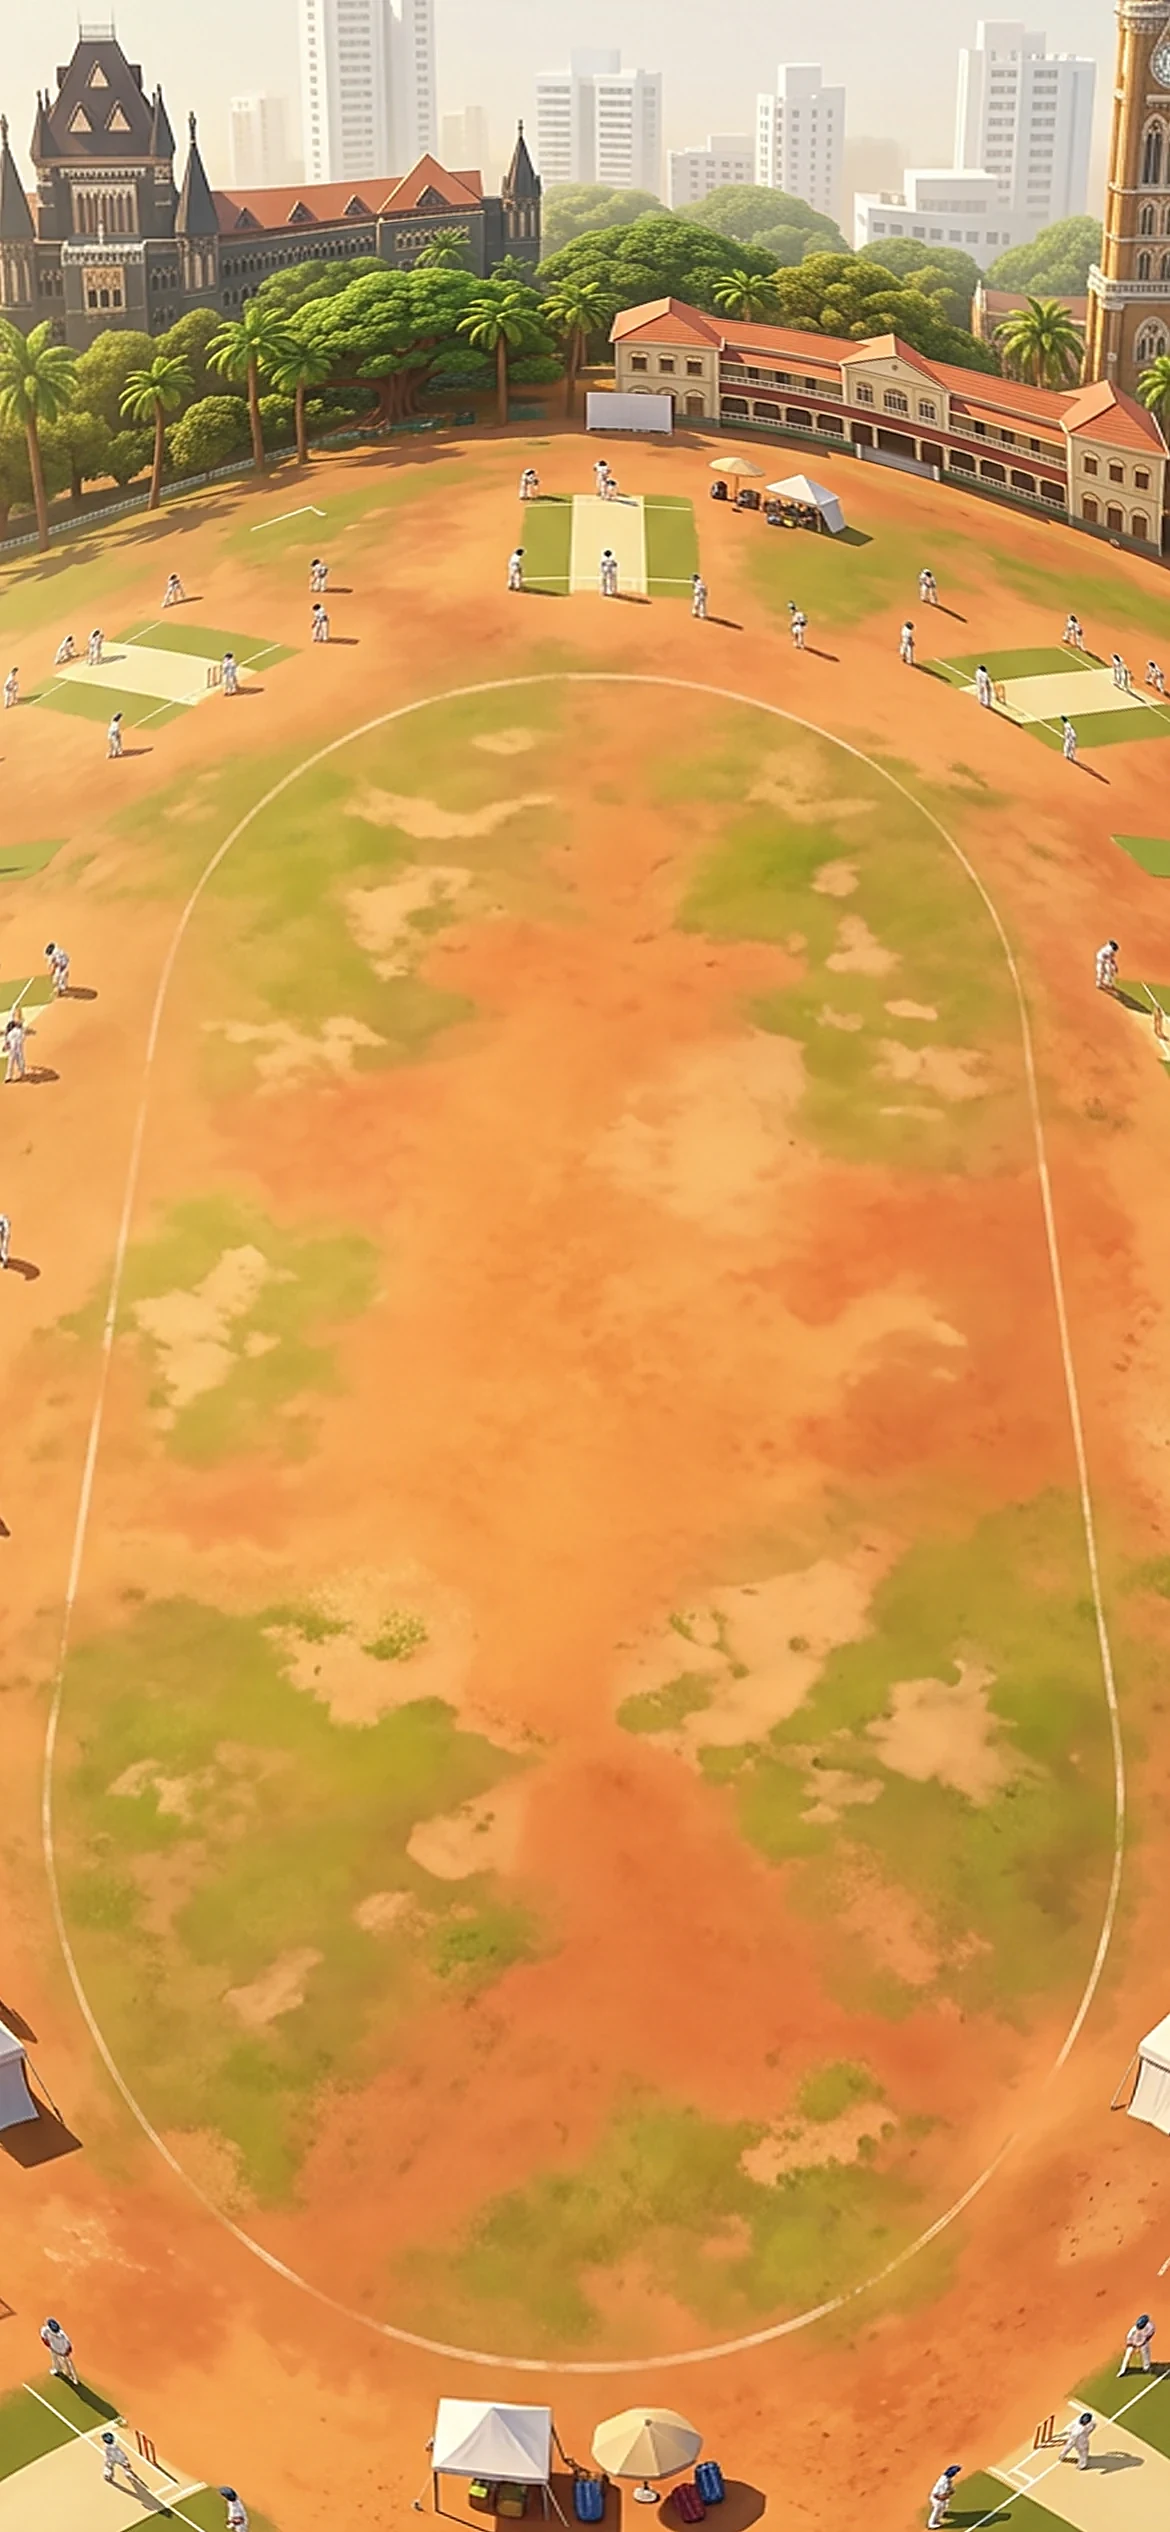
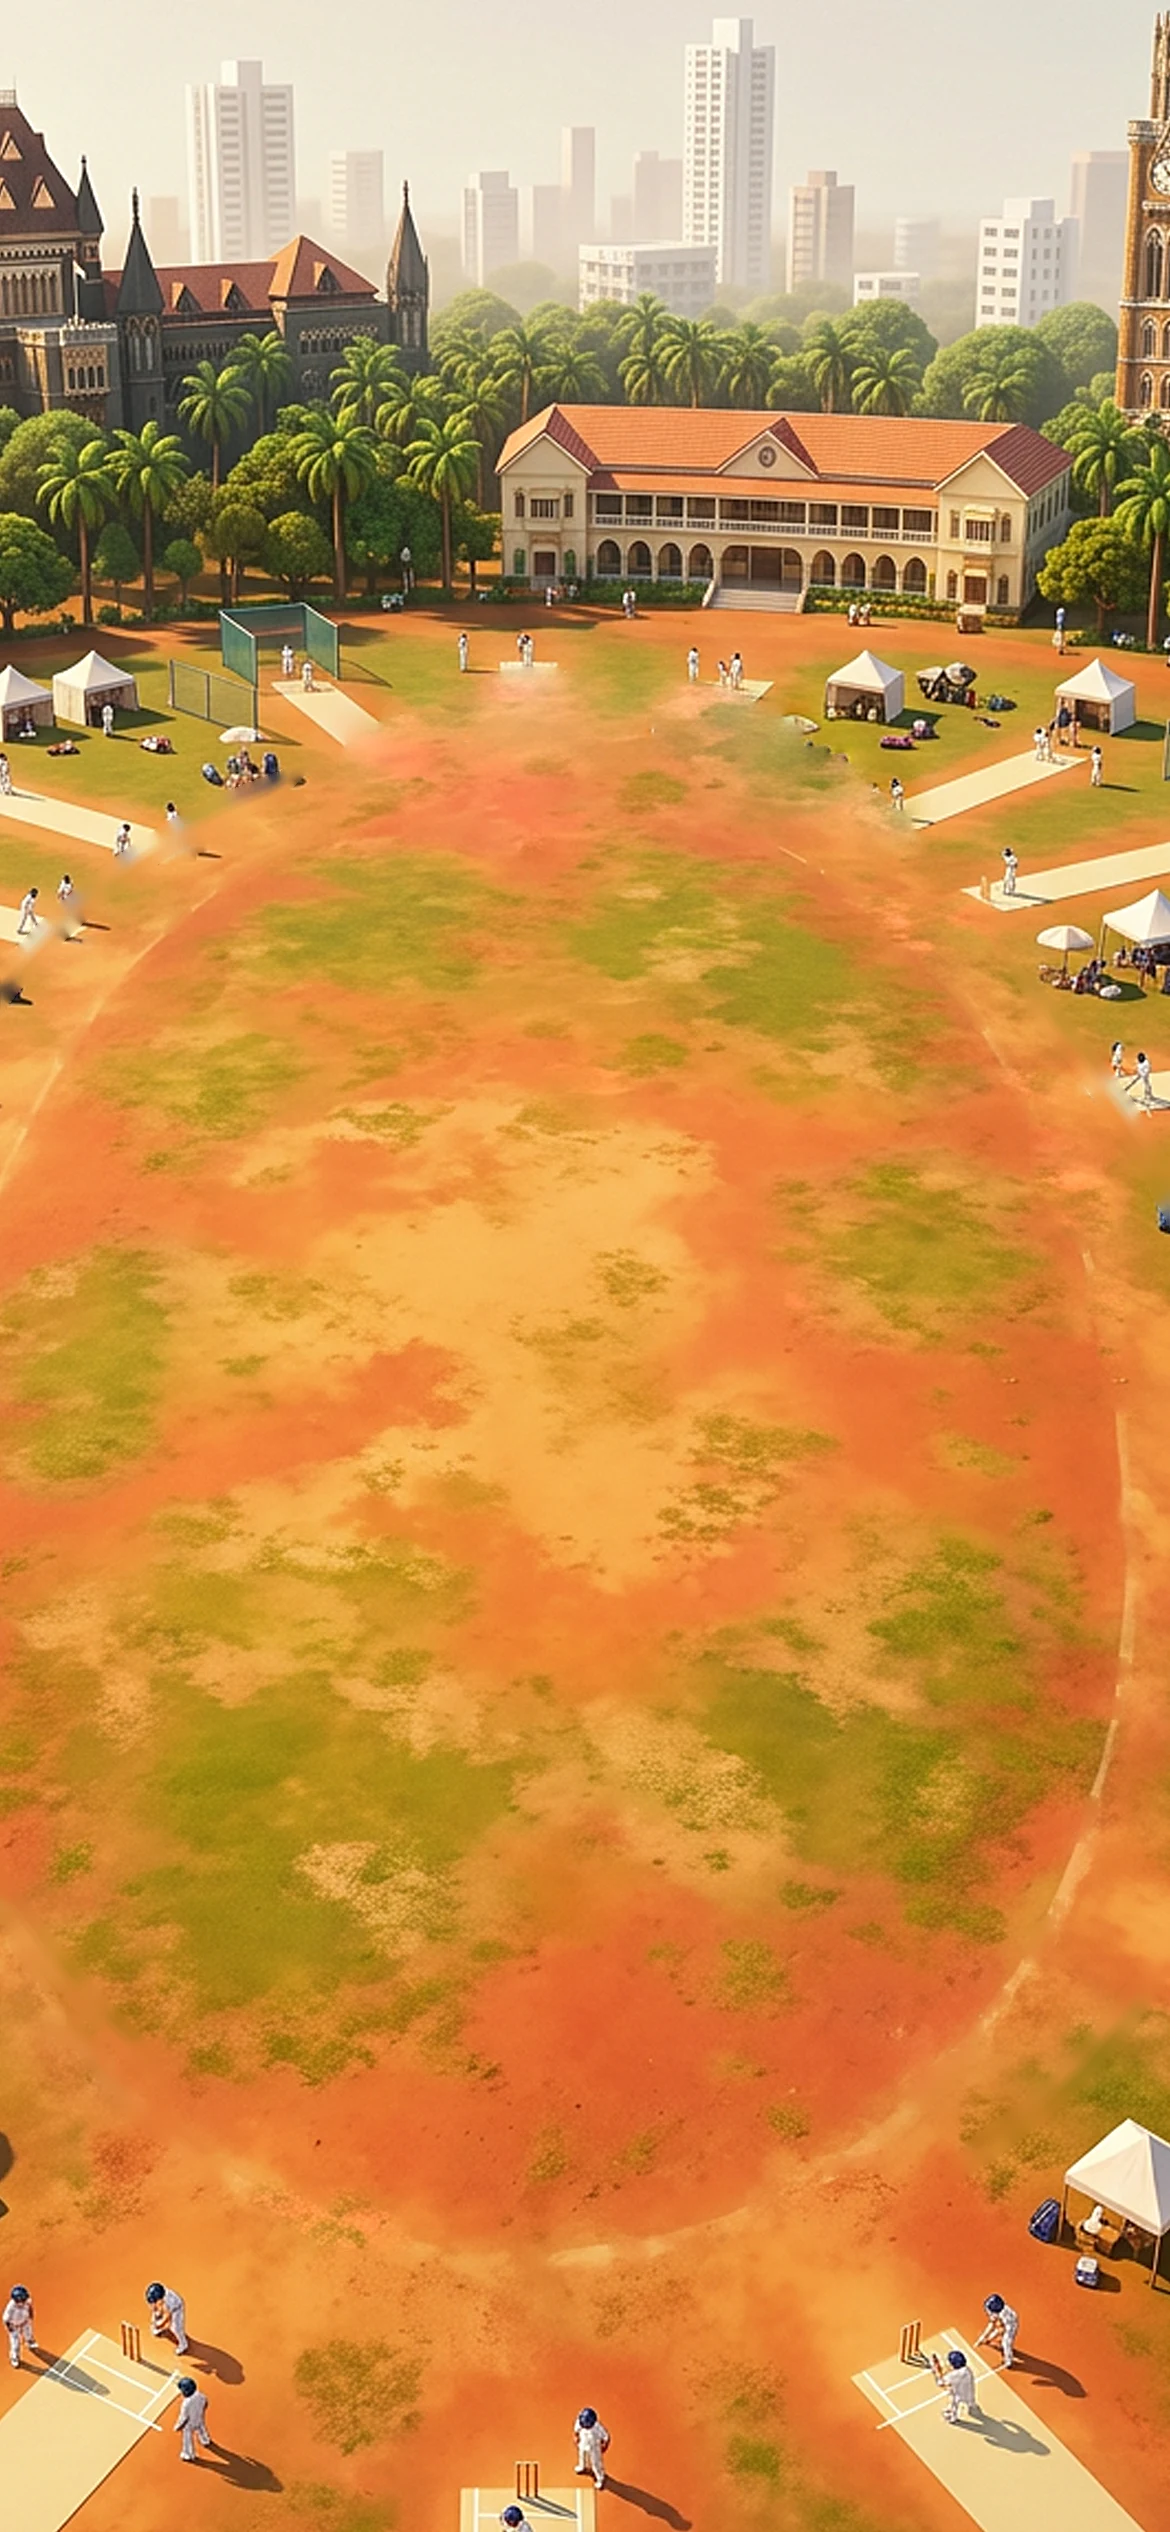
1.b Maidan: no stretch (one uniform scale), painted track line removed (Figma 340:191)
Claude-Session: https://claude.ai/code/session_01EnXvJ8XPeyqCUAaLS3ewZZ

diff --git a/art/grounds/maidan/build_1b.py b/art/grounds/maidan/build_1b.py
@@ -1,49 +1,66 @@
 import numpy as np, cv2
 from PIL import Image, ImageDraw
 W,H=1170,2532; cx,cy,rx,ry=.5*W,.6*H,.46*W,.335*H
-img=cv2.imread('p7_raw.png'); s=2.1
-up=cv2.resize(img,(round(768*s),round(1376*s)),interpolation=cv2.INTER_CUBIC); ox=234
-out=up[161:161+H, ox:ox+W].copy()
+img=cv2.imread('p10_raw.png')
+# 1) remove the faint painted line round the empty area (pale thin ring) in the source
+pcx,pcy,prx,pry=388,760,272,330
+y,x=np.mgrid[0:img.shape[0],0:img.shape[1]].astype(np.float32); pr=np.hypot((x-pcx)/prx,(y-pcy)/pry)
+hs=cv2.cvtColor(img,cv2.COLOR_BGR2HSV).astype(int)
+v=hs[...,2].astype(np.uint8); tophat=cv2.morphologyEx(v,cv2.MORPH_TOPHAT,np.ones((9,9),np.uint8))
+line=((tophat>14)&(hs[...,1]<150)&(pr>0.9)&(pr<1.1)).astype(np.uint8)
+line=cv2.dilate(line,np.ones((5,5),np.uint8))
+img=cv2.inpaint(img,line*255,7,cv2.INPAINT_TELEA)
+# 2) one uniform scale, no stretching
+s=2.2; up=cv2.resize(img,(round(768*s),round(1376*s)),interpolation=cv2.INTER_CUBIC)
+oy=int(pcy*s-cy); ox=int(pcx*s-cx)+55
+out=up[oy:oy+H,ox:ox+W].copy()
 yy,xx=np.mgrid[0:H,0:W].astype(np.float32); rho=np.hypot((xx-cx)/rx,(yy-cy)/ry)
+# 3) clear anything standing inside our boundary (other matches poking in at the top and bottom tips)
 hsv=cv2.cvtColor(out,cv2.COLOR_BGR2HSV); hh,ss,vv=[hsv[...,i].astype(int) for i in range(3)]
-ground=(hh>=12)&(hh<=50)&(ss>45)&(vv>80)
-obj=((~ground)&(rho<1.02)).astype(np.uint8)
-obj=cv2.morphologyEx(obj,cv2.MORPH_OPEN,np.ones((3,3),np.uint8)); obj=cv2.dilate(obj,np.ones((15,15),np.uint8))
-n,lab,st,cen=cv2.connectedComponentsWithStats(obj)
-erase=np.zeros((H,W),np.uint8)
+earth=(hh<=50)&(ss>45)&(vv>70)&(vv<245)
+obj=((~earth)&(rho<1.0)).astype(np.uint8)
+obj=cv2.morphologyEx(obj,cv2.MORPH_OPEN,np.ones((3,3),np.uint8)); obj=cv2.dilate(obj,np.ones((17,17),np.uint8))
+n,lab,st,cen=cv2.connectedComponentsWithStats(obj); erase=np.zeros((H,W),np.uint8)
 for i in range(1,n):
-  if st[i][4]<120: continue
+  if st[i][4]<100: continue
   comp=lab==i
-  py=cen[i][1]; px=cen[i][0]
-  if np.hypot((px-cx)/rx,(py-cy)/ry)<0.9: erase|=comp.astype(np.uint8)
-r=np.zeros_like(erase); cv2.rectangle(r,(425,660),(845,775),1,-1); erase|=r   # the three fielders standing on our top boundary
-sh=np.zeros_like(erase); sh[8:,16:]=erase[:-8,:-16]; erase=cv2.dilate(erase|sh,np.ones((11,11),np.uint8))*(rho<1.0)
-erase[660:775,425:845]|=1
-hb=((hh>=95)&(hh<=135)&(ss>70)); hb[:630]=False; hb[672:]=False; hb[:,:425]=False; hb[:,845:]=False   # helmet tops poking above the patch
-erase|=cv2.dilate(hb.astype(np.uint8),np.ones((9,9),np.uint8))
-clean=(ground&(rho<0.9)&(erase==0)).astype(np.uint8)
+  if (rho[comp]<1.0).mean()>0.4 and st[i][4]<60000: erase|=comp.astype(np.uint8)
+  elif (rho[comp]<1.0).mean()>0.05 and st[i][1]<900: erase|=(comp&(rho<1.04)).astype(np.uint8)   # top matches poking over our boundary: clear the part inside
+sh=np.zeros_like(erase); sh[8:,16:]=erase[:-8,:-16]; erase=cv2.dilate(erase|sh,np.ones((9,9),np.uint8))
+clean=(earth&(rho<0.85)&(erase==0)).astype(np.uint8)
 n,lab,st,_=cv2.connectedComponentsWithStats(erase)
 for i in range(1,n):
-  x,y,w,h,_a=st[i]; mk=(lab[y:y+h,x:x+w]==i).astype(np.uint8)
+  x0,y0,w,h,_a=st[i]; mk=(lab[y0:y0+h,x0:x0+w]==i).astype(np.uint8)
   best=None
-  for dy in range(-700,701,35):
-    for dx in range(-500,501,35):
-      X,Y=x+dx,y+dy
+  for dy in range(-900,901,30):
+    for dx in range(-500,501,30):
+      X,Y=x0+dx,y0+dy
       if X<0 or Y<0 or X+w>W or Y+h>H: continue
       if clean[Y:Y+h,X:X+w][mk>0].mean()>0.995:
         d=abs(dy)+abs(dx)
         if best is None or d<best[0]: best=(d,X,Y)
-  if best is None: print('no source for',x,y,w,h); continue
-  _,X,Y=best; src=out[Y:Y+h,X:X+w].copy()
-  out=cv2.seamlessClone(src,out,mk*255,(x+w//2,y+h//2),cv2.NORMAL_CLONE)
-hs2=cv2.cvtColor(out,cv2.COLOR_BGR2HSV).astype(int)
-bump=np.zeros((H,W),np.uint8); reg=hs2[625:680,425:845]
-g2=(reg[...,0]>=20)&(reg[...,0]<=50)&(reg[...,1]>60)&(reg[...,2]>110)
-fence=(reg[...,1]<70)&(reg[...,2]>150)
-bump[625:680,425:845]=((~g2)&(~fence)).astype(np.uint8)
-bump[:640]=0   # never touch the fence posts' bases above this
-bump=cv2.dilate(bump,np.ones((7,7),np.uint8))*255
-out=cv2.inpaint(out,bump,7,cv2.INPAINT_TELEA)
-cv2.imwrite('maidan_v10.png',out)
-im=Image.fromarray(cv2.cvtColor(out,cv2.COLOR_BGR2RGB)); d=ImageDraw.Draw(im); d.ellipse([cx-rx,cy-ry,cx+rx,cy+ry],outline=(255,0,0),width=6)
-im.resize((390,844)).save('v10_check.png'); print('patched',n-1)
+  if best is None: best=(0,x0,min(H-h,y0+h+60)); print('fallback below',x0,y0,w,h)
+  _,X,Y=best; out=cv2.seamlessClone(out[Y:Y+h,X:X+w].copy(),out,mk*255,(x0+w//2,y0+h//2),cv2.NORMAL_CLONE)
+# erase the old painted line (traced by eye on the fitted plate: it shows as an arc below our boundary)
+pts=np.array([[15,1965],[180,2130],[570,2250],[900,2160],[1050,2010],[1150,1830],[0,1800]],np.float32)
+pts=np.array([[15,1890],[180,2070],[390,2190],[600,2235],[840,2205],[1020,2100],[1155,1950]],np.float32); el=cv2.fitEllipse(pts)   # traced on the fitted plate
+band=np.zeros((H,W),np.uint8); cv2.ellipse(band,el,1,34)
+hs3=cv2.cvtColor(out,cv2.COLOR_BGR2HSV).astype(int)
+dirt=(hs3[...,0]<=50)&(hs3[...,1]>60)&(hs3[...,2]>80)&(hs3[...,2]<240)
+wide=np.zeros((H,W),np.uint8); cv2.ellipse(wide,el,1,150)
+hs3=cv2.cvtColor(out,cv2.COLOR_BGR2HSV).astype(np.float32); med=cv2.medianBlur(out,41); hm=cv2.cvtColor(med,cv2.COLOR_BGR2HSV).astype(np.float32)
+pale=((hm[...,1]-hs3[...,1]>14)|(hs3[...,2]-hm[...,2]>10))&(wide>0)&(hs3[...,1]>25)
+pale=cv2.morphologyEx(pale.astype(np.uint8),cv2.MORPH_OPEN,np.ones((2,2),np.uint8))
+n3,l3,s3,_=cv2.connectedComponentsWithStats(cv2.dilate(pale,np.ones((5,5),np.uint8)))
+keep=np.zeros((H,W),np.uint8)
+for i in range(1,n3):
+  x0,y0,w,h,a=s3[i]
+  if max(w,h)>60 and a<0.35*w*h: keep|=(l3==i).astype(np.uint8)   # long thin curve pieces only
+keep=cv2.dilate(keep,np.ones((9,9),np.uint8))
+out=cv2.inpaint(out,keep*255,11,cv2.INPAINT_TELEA)
+(ecx,ecy),(ew,eh),ea=el; b2=np.zeros((H,W),np.uint8); cv2.ellipse(b2,((ecx,ecy+12),(ew+10,eh+10),ea),1,30); b2&=(rho>1.02).astype(np.uint8)
+out=cv2.inpaint(out,b2*255,13,cv2.INPAINT_TELEA)
+out=cv2.addWeighted(out,1.5,cv2.GaussianBlur(out,(0,0),2),-0.5,0)
+cv2.imwrite('maidan_v12.png',out)
+im=Image.fromarray(cv2.cvtColor(out,cv2.COLOR_BGR2RGB)); d=ImageDraw.Draw(im); d.ellipse([cx-rx,cy-ry,cx+rx,cy+ry],outline=(255,0,0),width=5)
+im.resize((390,844)).save('v12_check.png'); print('scale',s,'patched',n-1)

diff --git a/art/ui/HANDOVER.md b/art/ui/HANDOVER.md
@@ -609,3 +609,4 @@ After that: sprint 7 app-store build on Joe's Mac (RevenueCat with store-confirm
 - 1.b v10 (Joe: keep the FIRST scene, with the patchy grass, the worn used wicket and the new stumps): first plate (Figma 332:195, carts patched, `--ellipse 387,770,305,330` fit — its painted stone ring sits under the game's, so one boundary shows) + worn maidan grass field from 337:192 colour-matched in (same `fix_field_1b.py`, input swapped), worn clay pitch + maroon-band stumps (338:192), maroon scoreboard. Note: Joe calls the pitch "the wicket"/"the strip".
 - 1.b final pick (Joe): PASS 2 with patchy worn grass, worn pitch and the new stumps (= v9 plate, `fix_field_1b.py` on the pass-2 fit).
 - 1.b v11 — built from Joe's own Maidan photos (Oval/Azad Maidan: dusty orange-red earth, patchy green squares, many matches all in whites, tents, palms + rain trees, High Court + Rajabai tower, Gymkhana-style red-roof pavilion, hazy skyline). Figma 339:191, Camera 4. Fit `align_plate.py --ellipse 386,732,212,286 --radial 1.7 --outer-scale 0.9` + unsharp; painted chalk line sits under the game's stones. Pulling the scenery further back (outer-scale 0.72) fisheyes and mirrors the top — don't. **Lesson (Joe frustrated after ~10 passes): ask for / use reference photos up front for any real place.**
+- 1.b v12 (Joe: "too stretched + a weird running track"): Figma 340:191 from his photos; the track was the model's painted chalk line round the empty area. Fit is now ONE uniform scale (2.2×, no warp at all → no stretch), the empty oval centred on the coded one; matches poking over our boundary cloned out; the painted line removed (traced arc → detect long thin pale pieces in a wide band → inpaint). `art/grounds/maidan/build_1b.py`. Rule: for open grounds, fit with a single uniform scale and accept that the painted empty area doesn't match the coded oval exactly — the game's stones are the boundary.
